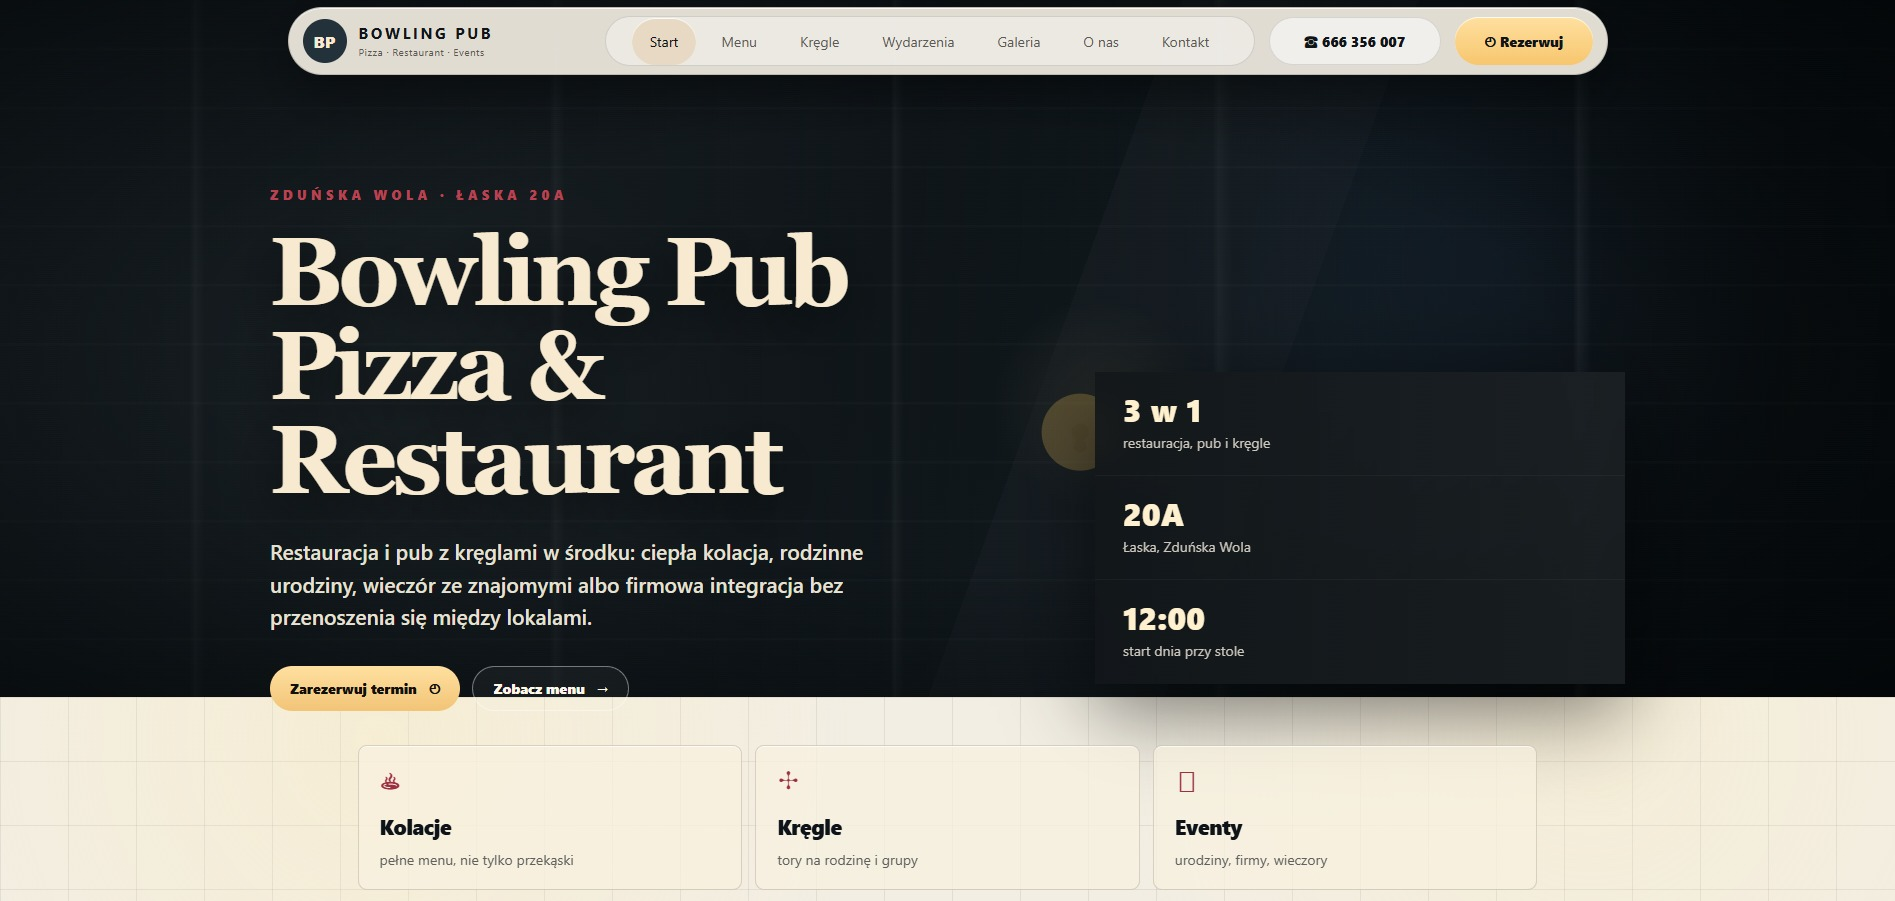
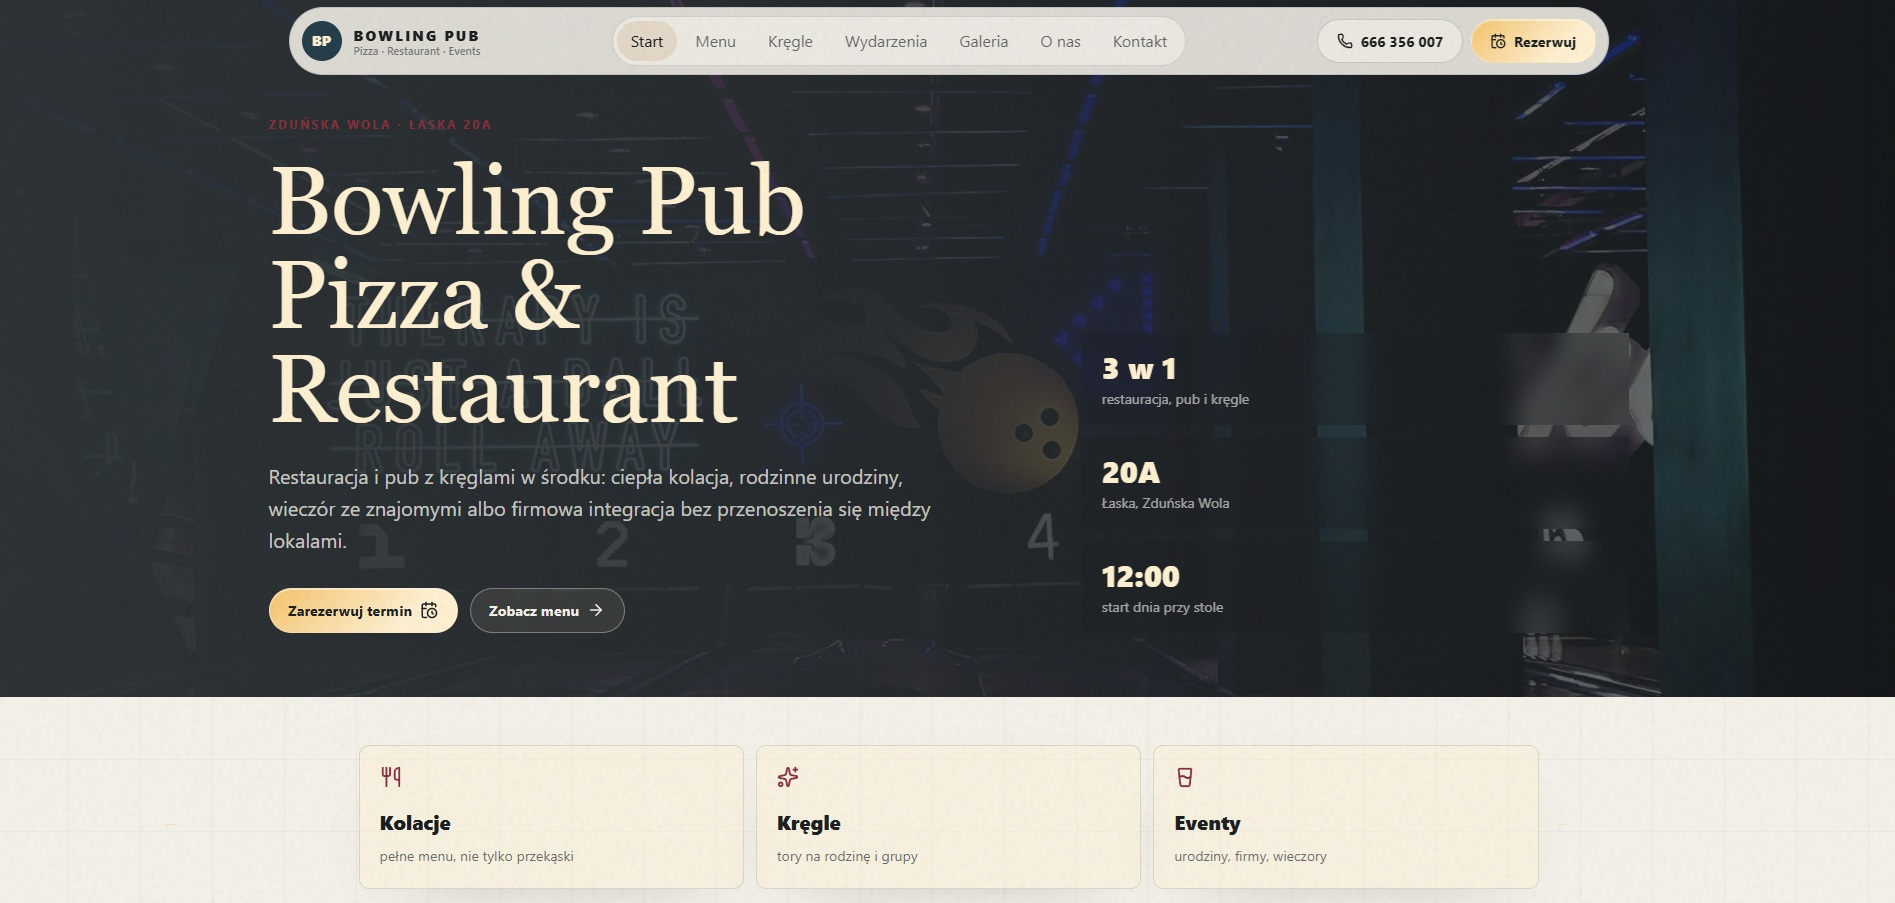
Add profile photo and update restaurant mockup

diff --git a/src/styles.css b/src/styles.css
@@ -780,8 +780,9 @@ footer {
 .portrait {
   display: grid;
   place-items: center;
-  flex: 0 0 104px;
-  min-height: 126px;
+  flex: 0 0 96px;
+  aspect-ratio: 9 / 16;
+  min-height: 170px;
   border-radius: 16px;
   background:
     linear-gradient(135deg, rgba(184, 255, 87, 0.14), transparent),
@@ -790,6 +791,7 @@ footer {
   font-family: var(--serif);
   font-size: 64px;
   font-style: italic;
+  overflow: hidden;
 }
 
 .portrait-image {
@@ -798,6 +800,31 @@ footer {
   border-radius: inherit;
   object-fit: cover;
   display: block;
+}
+
+.profile-placeholder {
+  display: grid;
+  place-items: center;
+  gap: 8px;
+  text-align: center;
+}
+
+.profile-placeholder strong {
+  font-family: var(--mono);
+  font-size: 18px;
+  font-style: normal;
+  letter-spacing: 0.1em;
+}
+
+.profile-placeholder small {
+  max-width: 70px;
+  color: var(--muted);
+  font-family: var(--mono);
+  font-size: 9px;
+  font-style: normal;
+  letter-spacing: 0.12em;
+  line-height: 1.35;
+  text-transform: uppercase;
 }
 
 .id-card dl {
@@ -1643,7 +1670,8 @@ footer {
   }
 
   .portrait {
-    min-height: 160px;
+    width: min(100%, 150px);
+    min-height: auto;
   }
 
   .feature-card .card-core {

diff --git a/src/main.jsx b/src/main.jsx
@@ -671,7 +671,10 @@ function App() {
                 <motion.div className="id-card outer-bezel" variants={reveal}>
                   <div className="portrait">
                     <AssetImage src={ASSETS.profile} alt="Michał Tarka" className="portrait-image">
-                      <span>M</span>
+                      <span className="profile-placeholder">
+                        <strong>9:16</strong>
+                        <small>profile photo</small>
+                      </span>
                     </AssetImage>
                   </div>
                   <dl>

diff --git a/public/assets/PROFILE_PHOTO_HERE.md b/public/assets/PROFILE_PHOTO_HERE.md
@@ -1,0 +1,6 @@
+Put your profile photo in this folder as:
+
+profile.jpg
+
+Recommended crop: vertical 9:16.
+The site loads it from /assets/profile.jpg.